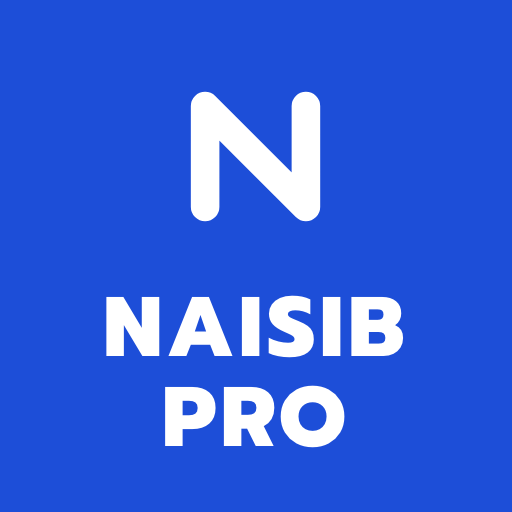
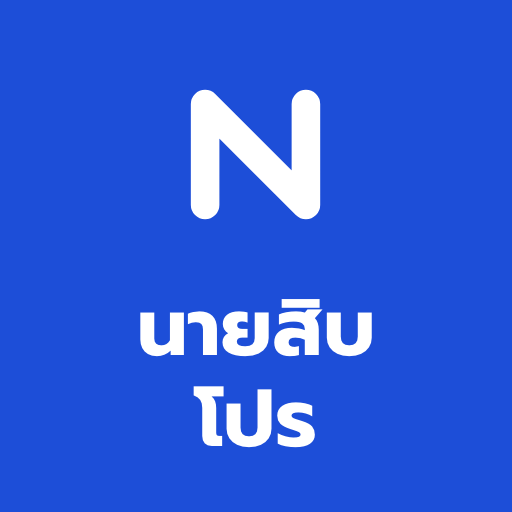
feat(brand): rebrand to นายสิบ โปร and switch URLs to naisibpro

diff --git a/src/app/layout.tsx b/src/app/layout.tsx
@@ -27,11 +27,11 @@ const mono = JetBrains_Mono({
 const BASE_PATH = (process.env.NEXT_PUBLIC_BASE_PATH || '').replace(/\/$/, '');
 const SITE_URL =
   process.env.NEXT_PUBLIC_SITE_URL ||
-  (BASE_PATH ? `https://muaxzinn.github.io${BASE_PATH}` : 'https://guru-umber.vercel.app');
+  (BASE_PATH ? `https://muaxzinn.github.io${BASE_PATH}` : 'https://naisibpro.vercel.app');
 
 export const metadata: Metadata = {
   metadataBase: new URL(SITE_URL),
-  title: 'NAISIB PRO — ติวสอบนายสิบตำรวจ ตัวจริง',
+  title: 'นายสิบ โปร — ติวสอบนายสิบตำรวจ ตัวจริง',
   description:
     'คลังข้อสอบนายสิบตำรวจ 7,038 ข้อ ครบ 7 วิชา เฉลยละเอียด วิเคราะห์จุดอ่อนรายหัวข้อ และโหมดสอบจับเวลาเสมือนจริง',
   manifest: `${BASE_PATH}/manifest.webmanifest`,
@@ -43,7 +43,7 @@ export const metadata: Metadata = {
     apple: `${BASE_PATH}/apple-icon.png`,
   },
   openGraph: {
-    title: 'NAISIB PRO — ติวสอบนายสิบตำรวจ ตัวจริง',
+    title: 'นายสิบ โปร — ติวสอบนายสิบตำรวจ ตัวจริง',
     description: 'คลังข้อสอบ 7,038 ข้อ · ฝึกฟรี ไม่ต้องสมัคร · ครบ 7 วิชา พร้อมเฉลยละเอียด',
     type: 'website',
     locale: 'th_TH',
@@ -52,13 +52,13 @@ export const metadata: Metadata = {
         url: `${BASE_PATH}/og-banner.png`,
         width: 1200,
         height: 630,
-        alt: 'NAISIB PRO — ติวสอบนายสิบตำรวจ ตัวจริง',
+        alt: 'นายสิบ โปร — ติวสอบนายสิบตำรวจ ตัวจริง',
       },
     ],
   },
   twitter: {
     card: 'summary_large_image',
-    title: 'NAISIB PRO — ติวสอบนายสิบตำรวจ ตัวจริง',
+    title: 'นายสิบ โปร — ติวสอบนายสิบตำรวจ ตัวจริง',
     description: 'คลังข้อสอบ 7,038 ข้อ · ฝึกฟรี ไม่ต้องสมัคร · ครบ 7 วิชา พร้อมเฉลยละเอียด',
     images: [`${BASE_PATH}/og-banner.png`],
   },

diff --git a/src/components/AppLoadingScreen.tsx b/src/components/AppLoadingScreen.tsx
@@ -21,8 +21,8 @@ interface AppLoadingScreenProps {
 
 const DEFAULT_COPY: Record<LoadingVariant, { title: string; subtitle: string; badge: string }> = {
   page: {
-    badge: 'NAISIB PRO · FAST ENGINE',
-    title: 'กำลังเตรียมระบบ NAISIB PRO...',
+    badge: 'นายสิบ โปร · FAST ENGINE',
+    title: 'กำลังเตรียมระบบ นายสิบ โปร...',
     subtitle: 'กำลังโหลดคลังข้อสอบนายสิบตำรวจและสถานะล่าสุดของคุณ',
   },
   exam: {
@@ -85,7 +85,7 @@ export function AppLoadingScreen({
                 <ShieldCheck className="h-5 w-5" />
               </span>
               <span className="text-base sm:text-lg">
-                NAISIB <span className="text-brand">PRO</span>
+                นายสิบ <span className="text-brand">โปร</span>
               </span>
             </div>
             <div className="hidden items-center gap-2 xl:flex">

diff --git a/src/app/(marketing)/articles/[slug]/page.tsx b/src/app/(marketing)/articles/[slug]/page.tsx
@@ -36,7 +36,7 @@ export default async function ArticleDetailPage({
         <article className="mt-4 rounded-card border border-line bg-panel p-6 shadow-card sm:p-8">
           <div className="inline-flex items-center gap-1.5 rounded-full bg-brand/10 px-3 py-1 text-xs font-bold text-brand">
             <BookOpen className="h-3.5 w-3.5" />
-            <span>บทความเตรียมสอบ NAISIB PRO</span>
+            <span>บทความเตรียมสอบ นายสิบ โปร</span>
           </div>
           <h1 className="mt-3 text-2xl font-extrabold leading-snug sm:text-3xl">{article.h1}</h1>
           <p className="mt-2 text-sm text-muted">{article.description}</p>

diff --git a/src/app/(marketing)/page.tsx b/src/app/(marketing)/page.tsx
@@ -407,7 +407,7 @@ export default function LandingPage() {
 
       <footer className="border-t border-line bg-panel py-8 text-center text-xs text-muted">
         <div className="mx-auto max-w-6xl px-4">
-          NAISIB PRO · ติวสอบนายสิบตำรวจ · ข้อมูลข้อสอบและบทความครบถ้วนเพื่อการเตรียมสอบ
+          นายสิบ โปร · ติวสอบนายสิบตำรวจ · ข้อมูลข้อสอบและบทความครบถ้วนเพื่อการเตรียมสอบ
         </div>
       </footer>
     </div>

diff --git a/src/components/ResultDetailClient.tsx b/src/components/ResultDetailClient.tsx
@@ -533,7 +533,7 @@ export function ResultDetailClient() {
                         </p>
                         {(eText || !eImg) && (
                           <RichExamContent
-                            text={eText || 'เฉลยตามคลังข้อมูลข้อสอบมาตรฐาน NAISIB PRO'}
+                            text={eText || 'เฉลยตามคลังข้อมูลข้อสอบมาตรฐาน นายสิบ โปร'}
                             className="text-ink/90 leading-relaxed"
                           />
                         )}

diff --git a/src/components/DashboardClient.tsx b/src/components/DashboardClient.tsx
@@ -880,7 +880,7 @@ export function DashboardClient({
                   <div>
                     <div className="text-sm font-bold text-ink">{row.nameMasked}</div>
                     {row.isChampion && (
-                      <div className="text-[11px] font-bold text-gold-ink">NAISIB PRO Champion</div>
+                      <div className="text-[11px] font-bold text-gold-ink">นายสิบ โปร Champion</div>
                     )}
                   </div>
                 </div>

diff --git a/src/app/loading.tsx b/src/app/loading.tsx
@@ -6,7 +6,7 @@ export default function RootLoading() {
     <AppLoadingScreen
       variant="page"
       includeHeader={true}
-      title="กำลังเตรียมระบบ NAISIB PRO..."
+      title="กำลังเตรียมระบบ นายสิบ โปร..."
       subtitle="กำลังโหลดคลังข้อสอบนายสิบตำรวจ 7,038 ข้อ และข้อมูลผู้ใช้งาน"
     />
   );

diff --git a/src/components/SiteHeader.tsx b/src/components/SiteHeader.tsx
@@ -167,7 +167,7 @@ export function SiteHeader({ mode = 'app' }: { mode?: 'public' | 'app' }) {
               <ShieldCheck className="h-4.5 w-4.5" />
             </span>
             <span>
-              NAISIB <span className="text-brand">PRO</span>
+              นายสิบ <span className="text-brand">โปร</span>
             </span>
           </Link>
 
